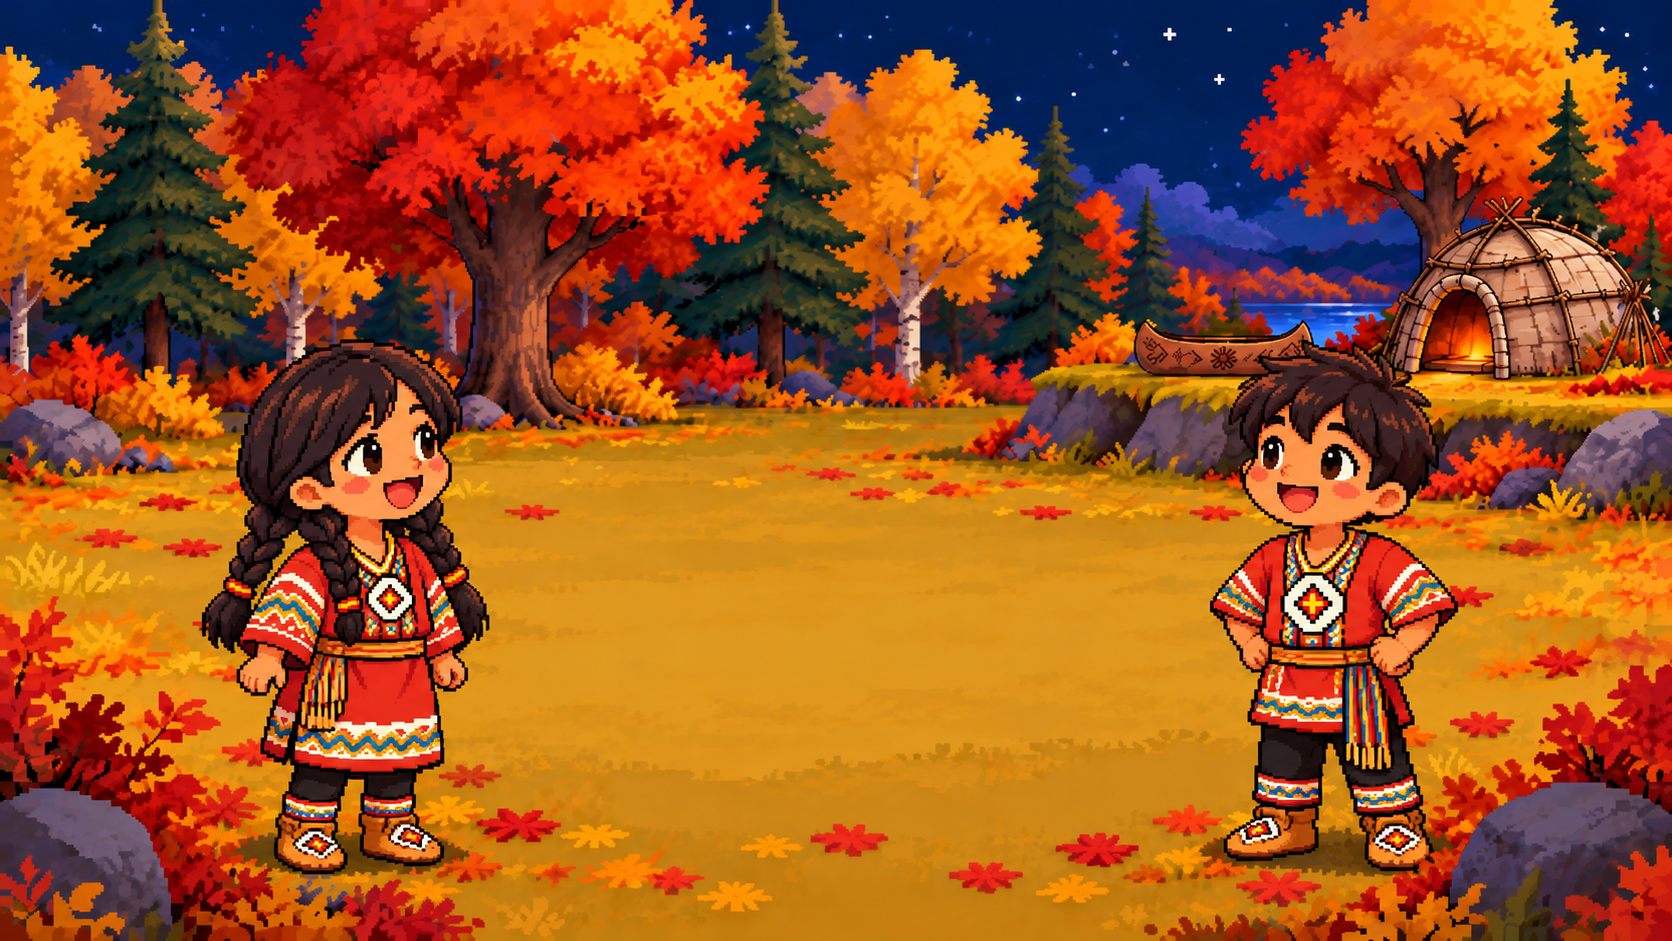
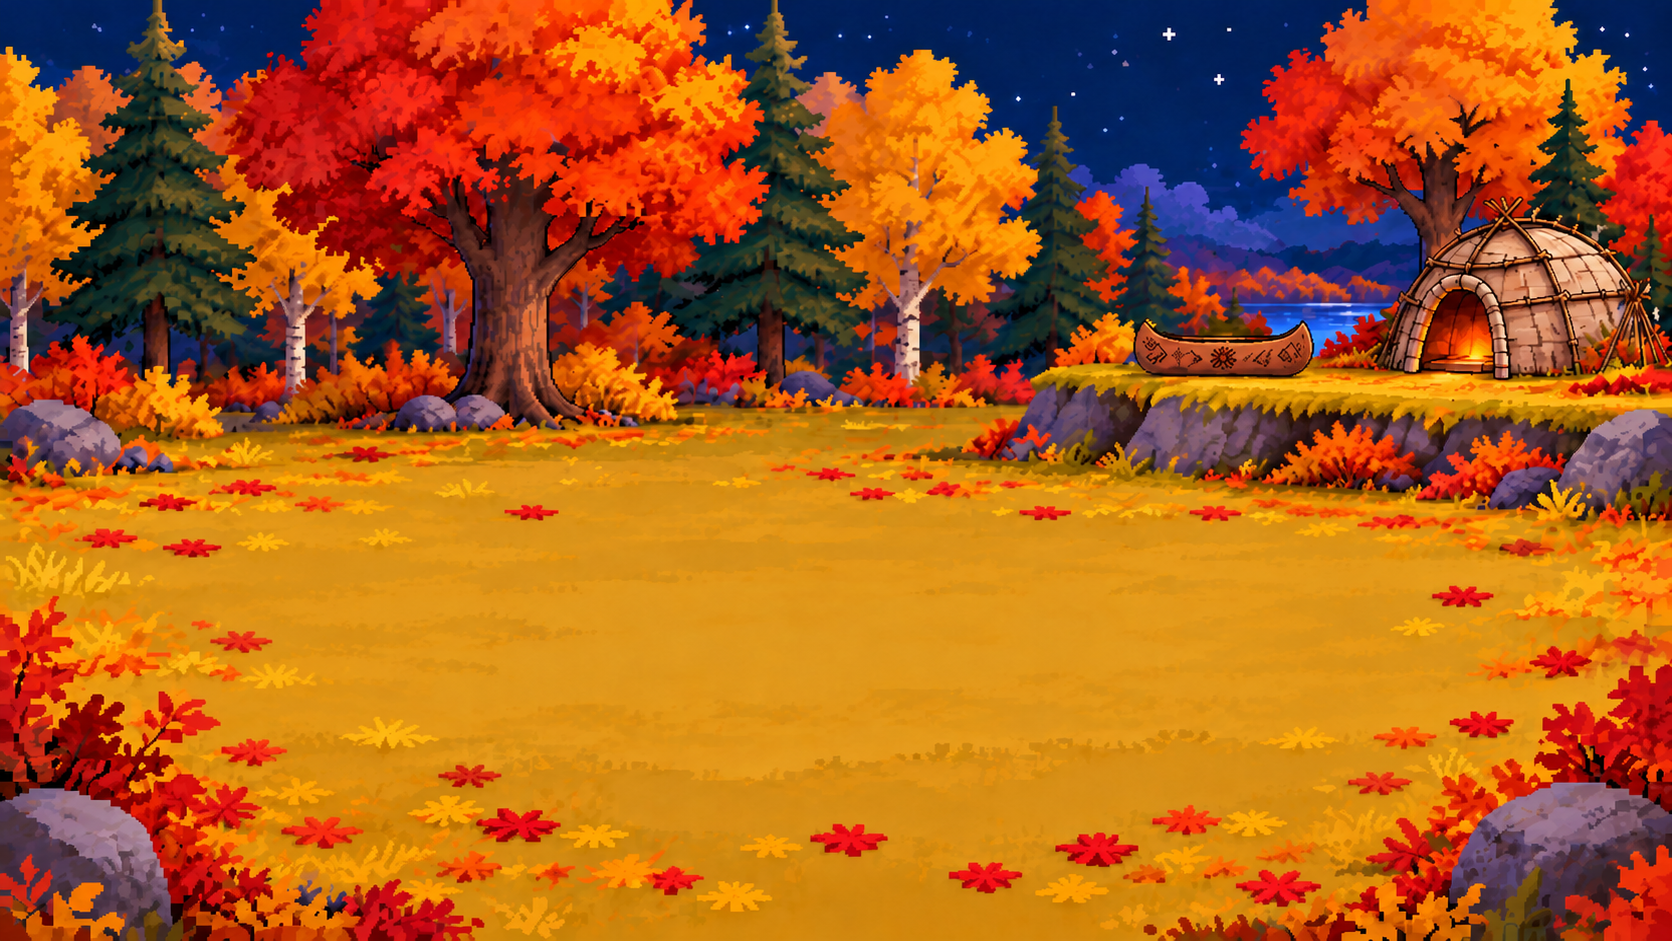
Animate menu characters and Game 1 celebration

diff --git a/src/pages/game1/Game1.jsx b/src/pages/game1/Game1.jsx
@@ -14,15 +14,20 @@ import thumbnail from "../../assets/thumbnail.png";
 import "../../styles/game1.css";
 import "../../styles/game1Landing.css";
 
+const regularConfettiCount = 22;
+const confettiDurations = [
+  ...Array.from({ length: regularConfettiCount }, (_, index) => 3.2 + (index % 4) * 0.25),
+  2.65, 2.8, 2.7, 2.9, 2.75,
+  1.85, 2.1, 1.95, 2.15, 1.9,
+];
+
 // Fixed positions keep the celebration consistent and avoid a new animation on re-render.
-const confetti = Array.from({ length: 22 }, (_, index) => ({
+const confetti = confettiDurations.map((duration, index) => ({
   left: `${4 + ((index * 43) % 92)}%`,
-  delay: `${(index % 7) * 0.11}s`,
-  duration: `${3.2 + (index % 4) * 0.25}s`,
+  delay: `${(index % 7) * (index < regularConfettiCount ? 0.11 : 0.04)}s`,
+  duration: `${duration}s`,
   color: ["#e7b339", "#d86d52", "#4c966d", "#7c9ec7", "#cc87a3"][index % 5],
 }));
-
-const STAR_COLORS = ["#e7b339", "#d86d52", "#4c966d"];
 
 function Confetti() {
   return (
@@ -43,7 +48,7 @@ function Confetti() {
   );
 }
 
-function MikmawStar({ filled, color, index }) {
+function MikmawStar({ filled, index }) {
   return (
     <svg
       className={`game1-star ${filled ? "game1-star--filled" : "game1-star--empty"}`}
@@ -52,20 +57,32 @@ function MikmawStar({ filled, color, index }) {
       height="34"
       aria-hidden="true"
     >
+      {filled && (
+        <g>
+          <polygon
+            points="50,50 17.5,17.5 41.2,28.75 50,4 58.8,28.75 82.5,17.5"
+            fill="#fefefe"
+          />
+          <polygon
+            points="50,50 82.5,17.5 71.25,41.2 96,50 71.25,58.8 82.5,82.5"
+            fill="#fec701"
+          />
+          <polygon
+            points="50,50 82.5,82.5 58.8,71.25 50,96 41.2,71.25 17.5,82.5"
+            fill="#df0113"
+          />
+          <polygon
+            points="50,50 17.5,82.5 28.75,58.8 4,50 28.75,41.2 17.5,17.5"
+            fill="#161615"
+          />
+        </g>
+      )}
       <polygon
-        points="50,4 62,34 94,24 72,50 94,76 62,66 50,96 38,66 6,76 28,50 6,24 38,34"
-        fill={filled ? color : "#9e9e9e"}
-        stroke="#3b1e06"
-        strokeWidth="4"
-        strokeLinejoin="round"
-      />
-      <circle
-        cx="50"
-        cy="50"
-        r="11"
-        fill={filled ? "#fff8e7" : "#bdbdbd"}
-        stroke="#3b1e06"
+        points="50,4 58.8,28.75 82.5,17.5 71.25,41.2 96,50 71.25,58.8 82.5,82.5 58.8,71.25 50,96 41.2,71.25 17.5,82.5 28.75,58.8 4,50 28.75,41.2 17.5,17.5 41.2,28.75"
+        fill={filled ? "none" : "#9e9e9e"}
+        stroke="#0b0b0b"
         strokeWidth="3"
+        strokeLinejoin="round"
       />
       <title>{`Star ${index + 1}`}</title>
     </svg>
@@ -84,7 +101,6 @@ function MikmawStarsTracker({ score, total = 3 }) {
           key={index}
           index={index}
           filled={index < score}
-          color={STAR_COLORS[index % STAR_COLORS.length]}
         />
       ))}
     </div>
@@ -266,7 +282,7 @@ export default function Game1() {
             >
               <div>
                 <h1 id="game1-complete-title">Game Complete!</h1>
-                <p className="game1-complete__praise">Grreat Job!</p>
+                <p className="game1-complete__praise">Great Job!</p>
               </div>
               <p>Score: {score}/{filteredQuestions.length}</p>
               <div className="game1-complete__actions">
@@ -283,7 +299,10 @@ export default function Game1() {
             </section>
           </div>
         ) : (
-          <section className="game1-layout" aria-label="Pictionary game">
+          <section
+            className={`game1-layout${currentQuestion === 0 ? " game1-layout--opening" : ""}`}
+            aria-label="Pictionary game"
+          >
             {!question ? (
               <p className="game1-empty">
                 No questions available for {selectedMonth}.

diff --git a/src/styles/game1.css b/src/styles/game1.css
@@ -414,6 +414,22 @@
   .game1-answer-row:nth-child(2) { animation-delay: 165ms; }
   .game1-answer-row:nth-child(3) { animation-delay: 210ms; }
 
+  .game1-layout--opening :is(.game1-image, .question-box) {
+    animation-name: game1-opening-arrive;
+    animation-duration: 580ms;
+  }
+
+  .game1-layout--opening .question-box {
+    animation-delay: 75ms;
+  }
+
+  .game1-layout--opening .game1-answer-row {
+    --game1-opening-offset: 9px;
+    --game1-opening-scale: 1;
+    animation-name: game1-opening-arrive;
+    animation-duration: 420ms;
+  }
+
   .game1-answer-audio {
     transition: background 180ms ease, transform 180ms ease;
   }
@@ -435,6 +451,19 @@
   @keyframes game1-choice-arrive {
     from { opacity: .65; transform: translateY(4px); }
     to   { opacity: 1; transform: translateY(0); }
+  }
+
+  @keyframes game1-opening-arrive {
+    from {
+      opacity: .3;
+      transform: translateY(var(--game1-opening-offset, 16px))
+        scale(var(--game1-opening-scale, .96));
+    }
+
+    to {
+      opacity: 1;
+      transform: translateY(0) scale(1);
+    }
   }
 }
 
@@ -748,7 +777,9 @@
   }
 
   .game1-complete-character {
-    animation: game1-celebration-pop 850ms cubic-bezier(.2, .75, .25, 1) both;
+    animation:
+      game1-celebration-pop 850ms cubic-bezier(.2, .75, .25, 1) both,
+      game1-celebration-bounce 525ms ease-in-out 850ms infinite alternate;
   }
 
   @keyframes game1-confetti-drop {
@@ -756,6 +787,16 @@
     12% { opacity: .68; }
     72% { opacity: .58; }
     100% { transform: translate3d(14px, 104dvh, 0) rotate(390deg); opacity: 0; }
+  }
+
+  @keyframes game1-celebration-bounce {
+    from {
+      transform: translateY(0);
+    }
+
+    to {
+      transform: translateY(-14px);
+    }
   }
 
   @keyframes game1-celebration-pop {

diff --git a/src/styles/menu.css b/src/styles/menu.css
@@ -15,6 +15,9 @@ Responsive behaviour:
 */
 
 .menu-screen {
+  position: relative;
+  isolation: isolate;
+  overflow: hidden;
   display: flex;
   align-items: center;
   justify-content: center;
@@ -22,9 +25,68 @@ Responsive behaviour:
   padding: 16px;
 }
 
+.menu-character {
+  position: absolute;
+  bottom: 3.5%;
+  width: auto;
+  height: min(72dvh, 39vw);
+  max-width: 29%;
+  object-fit: contain;
+  object-position: center bottom;
+  translate: -50% 0;
+  pointer-events: none;
+  user-select: none;
+}
+
+.menu-character--girl {
+  left: 21%;
+}
+
+.menu-character--boy {
+  left: 79%;
+}
+
+@media (max-width: 1000px) {
+  .menu-character {
+    bottom: 2%;
+    height: min(33dvh, 46vw);
+    max-width: 34%;
+  }
+
+  .menu-character--girl {
+    left: 24%;
+  }
+
+  .menu-character--boy {
+    left: 76%;
+  }
+}
+
+@media (prefers-reduced-motion: no-preference) {
+  .menu-character {
+    animation: menu-character-bounce 600ms ease-in-out infinite alternate;
+  }
+
+  .menu-character--boy {
+    animation-delay: -600ms;
+  }
+
+  @keyframes menu-character-bounce {
+    from {
+      transform: translateY(0);
+    }
+
+    to {
+      transform: translateY(-24px);
+    }
+  }
+}
+
 /* MENU BUTTON CONTAINER */
 
 .menu-buttons {
+  position: relative;
+  z-index: 1;
   display: flex;
   flex-direction: column;
 

diff --git a/src/pages/Menu.jsx b/src/pages/Menu.jsx
@@ -3,6 +3,8 @@ import { useNavigate } from "react-router-dom";
 
 import WoodenButton from "../components/WoodenButton";
 import backgroundImage from "../assets/background2.png";
+import girl from "../assets/girl.png";
+import boy from "../assets/boy.png";
 
 import "../styles/menu.css";
 
@@ -27,6 +29,9 @@ export default function Menu() {
         backgroundImage: `url(${backgroundImage})`,
       }}
     >
+      <img className="menu-character menu-character--girl" src={girl} alt="" draggable={false} />
+      <img className="menu-character menu-character--boy" src={boy} alt="" draggable={false} />
+
       <nav
         className="menu-buttons"
         aria-label="Game selection"
